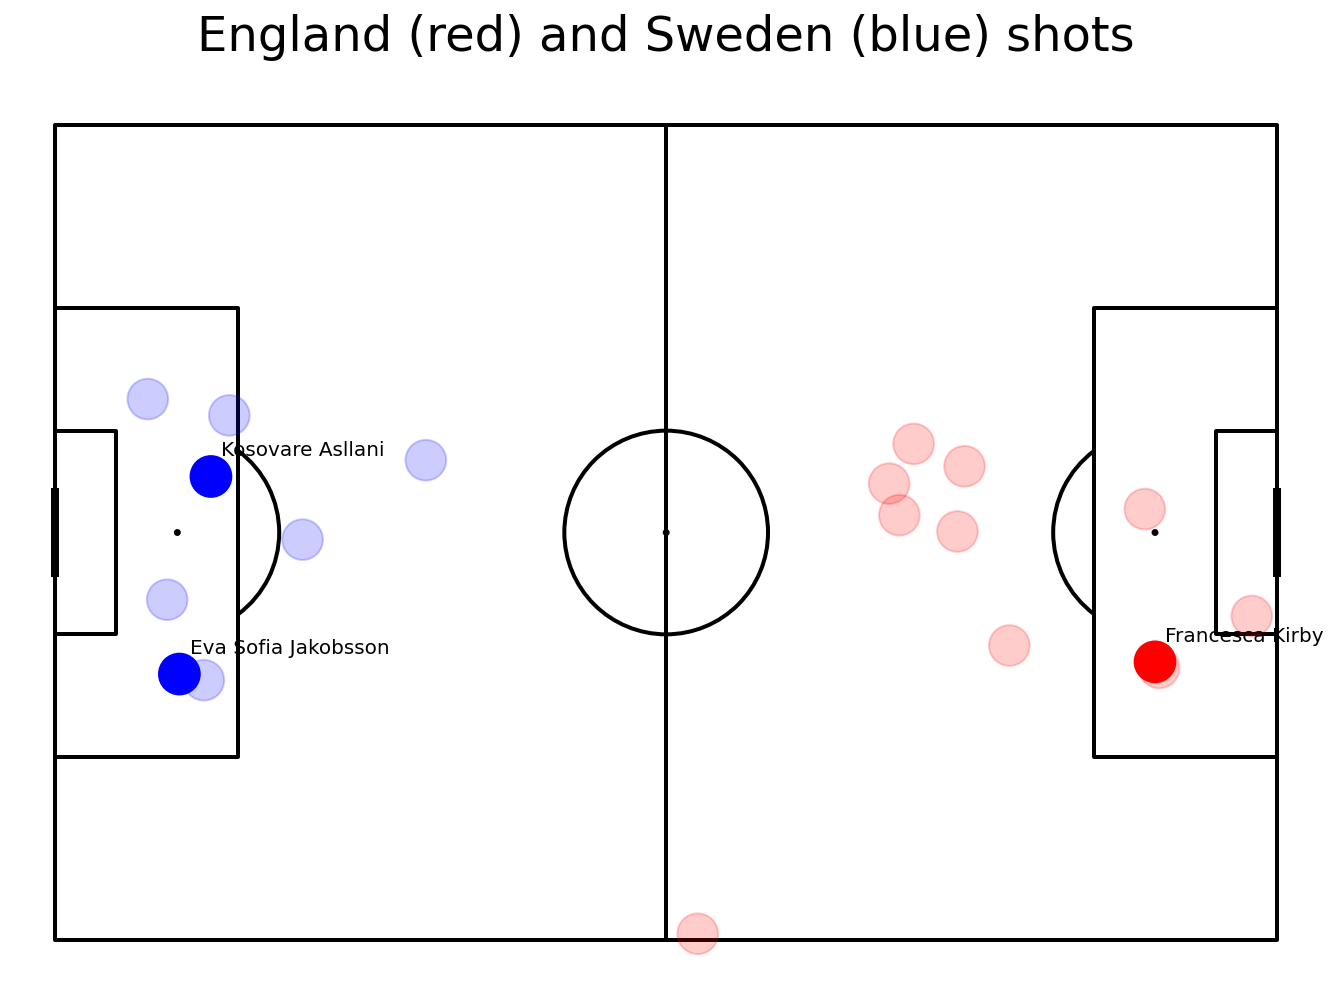
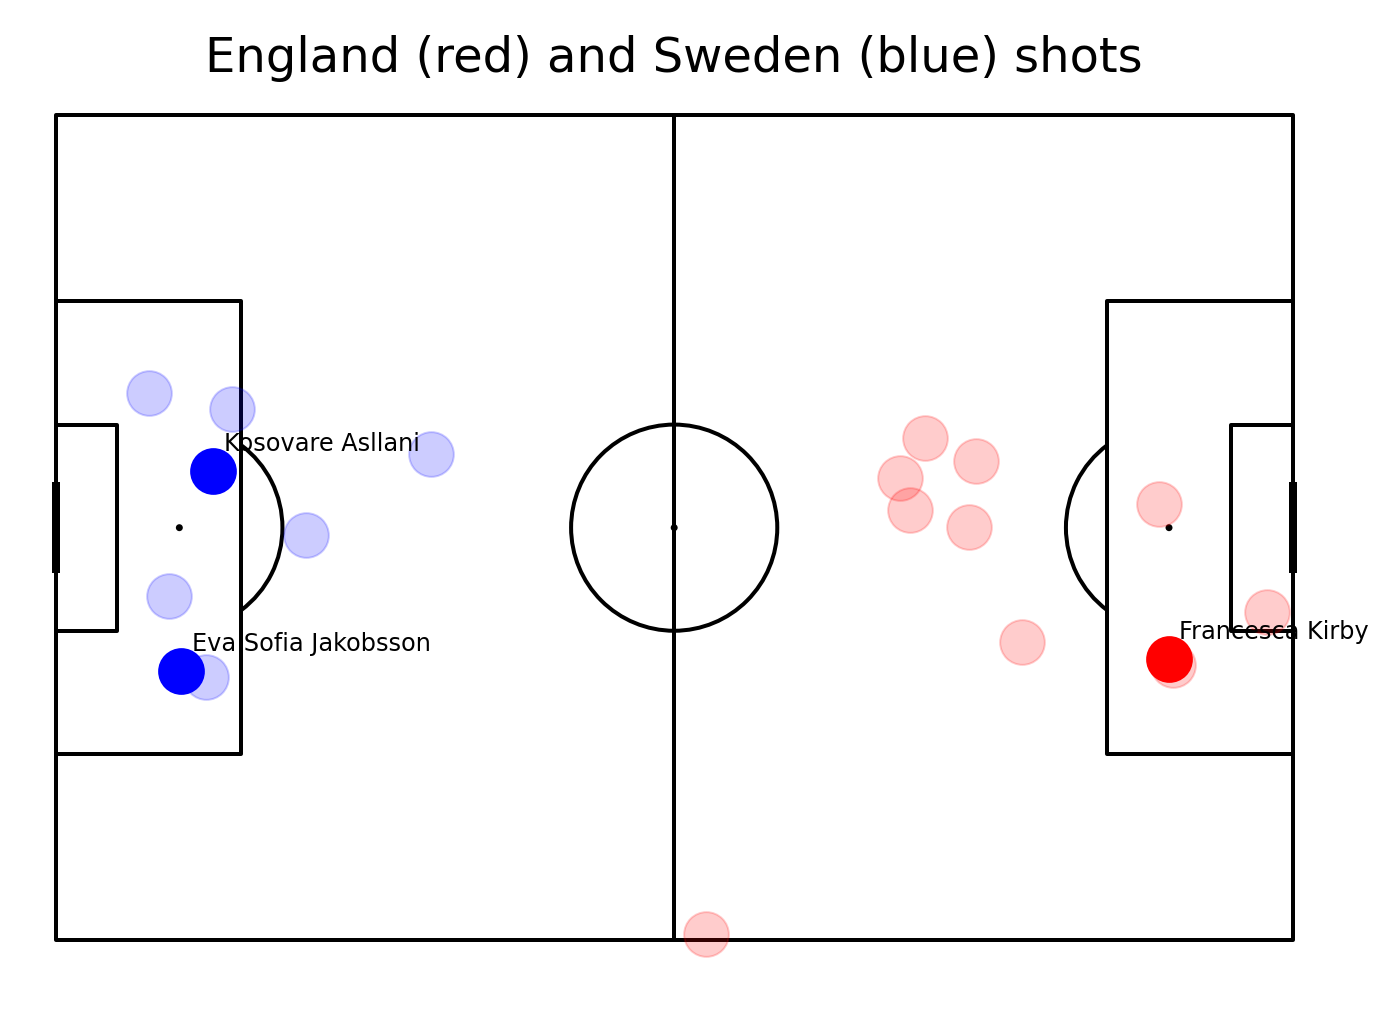
plotting shots on the pitch

diff --git a/shots_map.py b/shots_map.py
@@ -5,11 +5,12 @@ Created on Wed Feb 25 12:29:44 2026
 """
 
 # =============================================================================
-# Plotting shots on the pitch for the Women's World Cup 2019 between England and Sweden 
+# Plotting shots on the pitch for the Women's World Cup 2019 - England Vs Sweden 
+# If a goal was scored, we use scatter method to plot a circle and annotate method to mark scorer's name.
+# If not, we use scatter method to draw a translucent circle. 
 # =============================================================================
 
-import matplotlib.pyplot as plt
-from mplsoccer import Pitch, Sbopen
+from mplsoccer import Pitch, Sbopen, VerticalPitch
 
 # using StatsBomb data and filtering for the specific match datasets
 parser = Sbopen()
@@ -17,40 +18,55 @@ competition_df = parser.competition()
 match_df=parser.match(72, 30)
 
 df, related, freeze, tactics = parser.event(69301)
-#get team names
 team1, team2 = df.team_name.unique()
-#A dataframe of shots
 shots = df.loc[df['type_name'] == 'Shot'].set_index('id')
     
 # plotting a standard-size pitch
 pitch = Pitch(line_color='black')
-fig, ax = pitch.draw(figsize=(10,7))
+fig, ax = pitch.grid(grid_height=0.9, title_height=0.06, axis=False,
+                     endnote_height=0.04, title_space=0, endnote_space=0)
 pitchLengthX=120
 pitchWidthY=80
 
-# iterating through each row to plot the shot on the picth
-for i, shot in shots.iterrows():
-    x, y=shot['x'], shot['y']
-    goal=shot['outcome_name']=='Goal'
-    team_name = shot['team_name']
-    circleSize=2
+# iterating through each row to plot the shot
+for i, row in shots.iterrows():
+    x, y=row['x'], row['y']
+    goal=row['outcome_name']=='Goal'
+    team_name = row['team_name']
     
-    # goals are plotted in dark colour while missed shots are light in colour
+    # goals are plotted in dark colour while missed shots are translucent
     if (team_name==team1):
         if goal:
-            shotCircle=plt.Circle((x,y),circleSize,color="red")
-            plt.text(x+1, y-2, shot['player_name'])
-        else:
-            shotCircle=plt.Circle((x,y), circleSize,color="red")
-            shotCircle.set_alpha(.2)
+            pitch.scatter(x, y, alpha = 1, s = 500, color = "red", ax=ax['pitch']) 
+            pitch.annotate(row["player_name"], (x + 1, y - 2), ax=ax['pitch'], fontsize = 12)
+        else: 
+            pitch.scatter(x, y, alpha = 0.2, s = 500, color = "red", ax=ax['pitch']) 
             
     else:
         if goal:
-             shotCircle=plt.Circle((pitchLengthX-x,pitchWidthY - y),circleSize,color="blue") 
-             plt.text(pitchLengthX-x+1,pitchWidthY - y - 2 ,shot['player_name'])
-        else:
-             shotCircle=plt.Circle((pitchLengthX-x,pitchWidthY - y),circleSize,color="blue")      
-             shotCircle.set_alpha(.2)
-    ax.add_patch(shotCircle)
+            pitch.scatter(pitchLengthX-x, pitchWidthY-y, alpha = 1, s = 500, color = "blue", ax=ax['pitch']) 
+            pitch.annotate(row["player_name"], (pitchLengthX-x + 1, pitchWidthY-y - 2), ax=ax['pitch'], fontsize = 12)
+        else: 
+            pitch.scatter(pitchLengthX-x, pitchWidthY-y, alpha = 0.2, s = 500, color = "blue", ax=ax['pitch']) 
+            
 
-fig.suptitle("England (red) and Sweden (blue) shots", fontsize = 24)
+fig.suptitle("England (red) and Sweden (blue) shots", fontsize = 24)     
+fig.set_size_inches(10, 7)
+
+
+
+# =============================================================================
+# Plotting shots on one half using VerticalPitch() class by setting half=True
+# =============================================================================
+
+
+df_england = df[(df['type_name']=='Shot') & (df['team_name'].str.contains('England'))][['x', 'y', 'outcome_name', 'player_name']]
+# df_sweden = df[(df['type_name']=='Shot') & (df['team_name'].str.contains('Sweden'))][['x', 'y', 'outcome_name', 'player_name']]
+
+pitch = VerticalPitch(line_color='black', half = True)
+fig, ax = pitch.grid(grid_height=0.9, title_height=0.06, axis=False,
+                     endnote_height=0.04, title_space=0, endnote_space=0)
+#plotting all shots
+pitch.scatter(df_england.x, df_england.y, alpha = 1, s = 500, color = "red", ax=ax['pitch'], edgecolors="black") 
+fig.suptitle("England shots against Sweden", fontsize = 30)           
+
